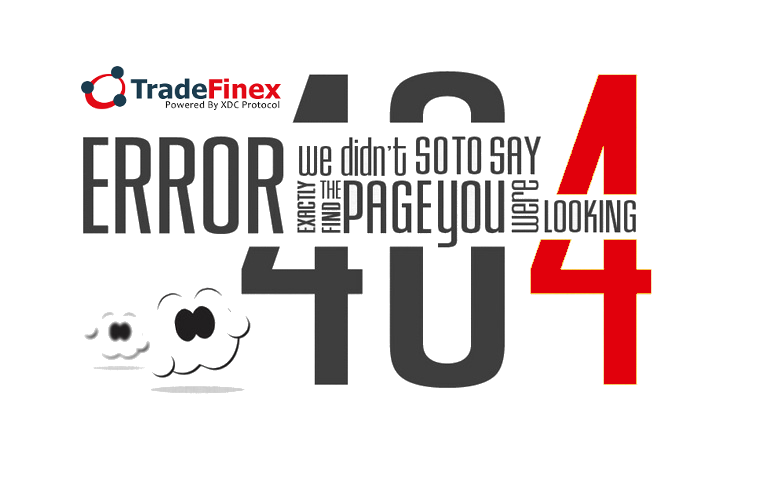
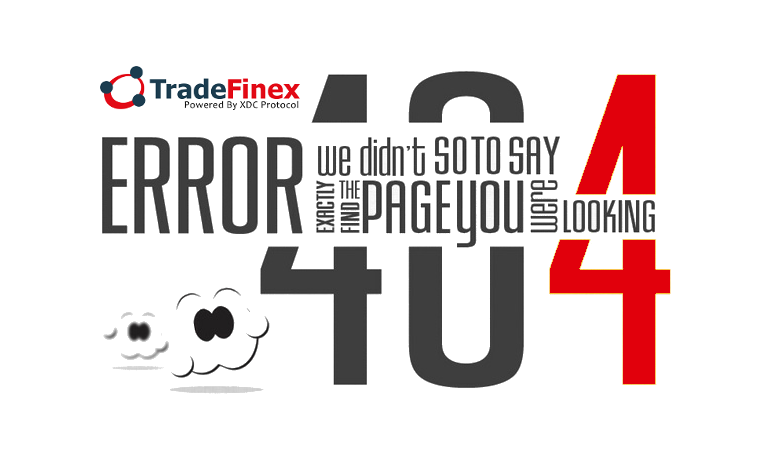
Update error404_view.php
style.css changes,
404 image compressed

Changed region(s): [[0.0935, 0.1231, 0.8727, 0.8615], [0.3429, 0.7077, 0.374, 0.7385], [0.187, 0.6154, 0.2182, 0.6462]]

diff --git a/assets/css/tf-style.css b/assets/css/tf-style.css
@@ -996,6 +996,7 @@ Footer
 
 /*-- 404 Page --*/
 .notfound-404 h1 {font-family: 'Libre Baskerville', serif;font-size: 175px;font-weight: 700;margin: 0px;color: #ea212d;text-transform: uppercase;letter-spacing: 5px;text-shadow: 5px 5px #D5D5D5;}
+.notfound-404 img {margin: 0 auto;}
 @media (max-width: 576px){.notfound-404 h1 {font-size: 100px;} }
 /*-- 404 Page --*/
 

diff --git a/application/views/pages/error404_view.php b/application/views/pages/error404_view.php
@@ -1,6 +1,6 @@
-	<div id="container" style="text-align:center">
-		<img src="<?=base_url();?>assets/images/page/404.png" alt="404 Not Found" />
-		<div class="form-group">
+	<div id="container" class="notfound-404 text-center">
+		<img src="<?=base_url();?>assets/images/page/404.png" alt="404 Not Found" class="img-responsive" />
+		<div class="form-group mt-20 mb-50">
 			<a href="<?php echo base_url()?>" type="button" class="btn btn-blue text-uppercase"> Back to Home</a>
 		</div>
 	</div>
